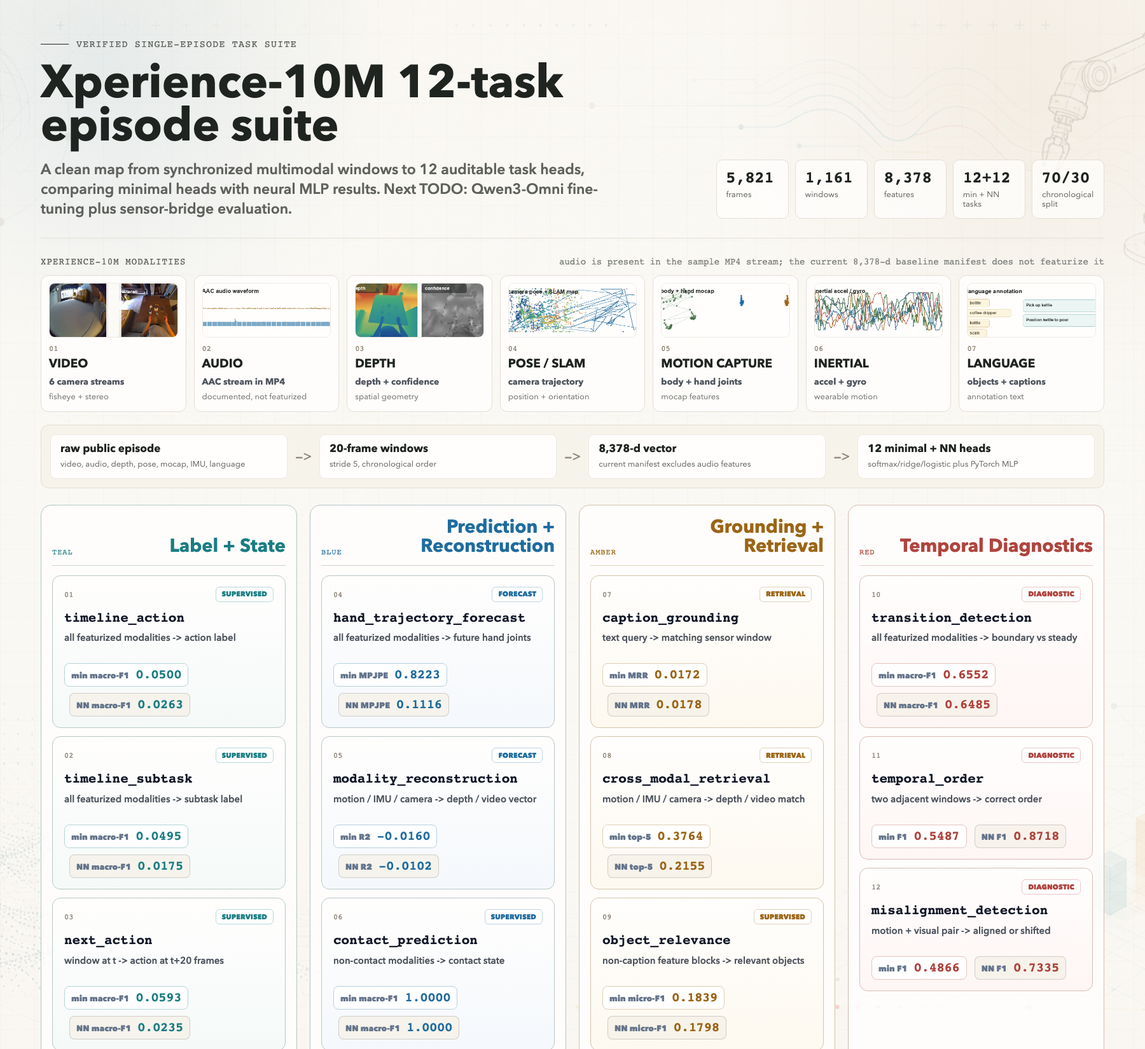
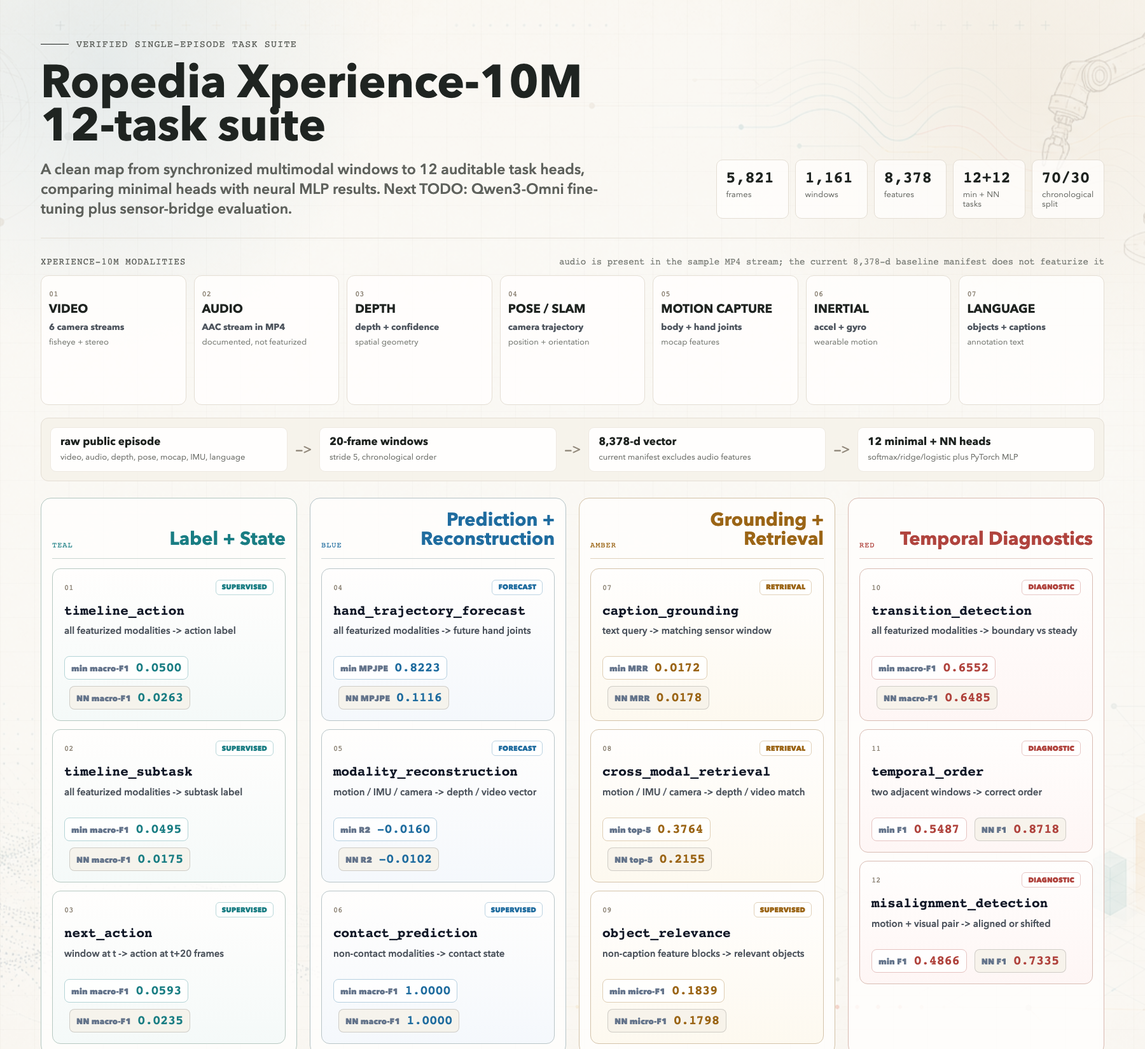
Rename project to Ropedia Xperience-10M

diff --git a/docs/index.html b/docs/index.html
@@ -3,9 +3,9 @@
 <head>
   <meta charset="utf-8">
   <meta name="viewport" content="width=device-width, initial-scale=1">
-  <title>Xperience-10M Episode Task Suite</title>
+  <title>Ropedia Xperience-10M Task Suite</title>
   <meta name="description" content="A transparent multimodal task suite for one public Xperience-10M sample episode released by Ropedia, with minimal and neural MLP baselines.">
-  <meta property="og:title" content="Xperience-10M Episode Task Suite">
+  <meta property="og:title" content="Ropedia Xperience-10M Task Suite">
   <meta property="og:description" content="One public embodied-AI episode, converted into reproducible multimodal tasks, minimal baselines, neural MLP baselines, metrics, and diagrams.">
   <meta property="og:image" content="assets/task_suite_infographic.png?v=xperience10m-nn">
   <style>
@@ -564,9 +564,9 @@
   <a class="skip-link" href="#main">Skip to content</a>
   <nav class="site-nav">
     <div class="wrap nav-inner">
-      <a class="brand" href="#top" aria-label="Xperience-10M Episode Task Suite home">
+      <a class="brand" href="#top" aria-label="Ropedia Xperience-10M Task Suite home">
         <span class="mark" aria-hidden="true">X</span>
-        <span>Xperience-10M Episode Task Suite</span>
+        <span>Ropedia Xperience-10M Task Suite</span>
       </a>
       <div class="nav-links" aria-label="Page navigation">
         <a href="#suite">Suite</a>
@@ -579,8 +579,8 @@
         <a href="#tasks">Tasks</a>
         <a href="#features">Signals</a>
         <a href="#artifacts">Artifacts</a>
-        <a class="nav-action" href="https://huggingface.co/spaces/cy0307/ropedia-episode-task-suite">HF Space</a>
-        <a class="nav-action" href="https://github.com/ChaoYue0307/ropedia-episode-task-suite">GitHub</a>
+        <a class="nav-action" href="https://huggingface.co/spaces/cy0307/ropedia-xperience-10m-task-suite">HF Space</a>
+        <a class="nav-action" href="https://github.com/ChaoYue0307/ropedia-xperience-10m-task-suite">GitHub</a>
       </div>
     </div>
   </nav>
@@ -589,7 +589,7 @@
     <div class="wrap hero-inner">
       <div>
         <div class="eyebrow">single public episode / verified artifacts</div>
-        <h1>One Xperience-10M episode, made auditable.</h1>
+        <h1>One Ropedia Xperience-10M episode, made auditable.</h1>
         <p class="hero-copy">
           A compact research lab for the public Xperience-10M sample from Ropedia:
           video, audio, depth, pose, motion capture, inertial sensing, and language annotation,
@@ -598,8 +598,8 @@
         </p>
         <div class="hero-actions">
           <a class="button primary" href="#suite">Inspect 12 tasks</a>
-          <a class="button" href="https://cy0307-ropedia-episode-task-suite.static.hf.space/">Open HF app</a>
-          <a class="button" href="https://github.com/ChaoYue0307/ropedia-episode-task-suite">View repository</a>
+          <a class="button" href="https://cy0307-ropedia-xperience-10m-task-suite.static.hf.space/">Open HF app</a>
+          <a class="button" href="https://github.com/ChaoYue0307/ropedia-xperience-10m-task-suite">View repository</a>
           <a class="button" href="data/summary_metrics.json">Read metrics JSON</a>
         </div>
         <div class="hero-stats">
@@ -628,10 +628,10 @@
     <section id="suite">
       <div class="wrap">
         <div class="section-head">
-          <h2>Xperience-10M 12-task suite, first.</h2>
+          <h2>Ropedia Xperience-10M 12-task suite, first.</h2>
           <p>The top-level map shows the Xperience-10M sample modalities and the verified 12-task results. Audio is present in the sample MP4 stream, but the current 8,378-d baseline manifest does not featurize it.</p>
         </div>
-        <img class="task-suite-image" src="assets/task_suite_infographic.png?v=xperience10m-nn" alt="ChatGPT-image-backed infographic showing all 12 Xperience-10M episode tasks">
+        <img class="task-suite-image" src="assets/task_suite_infographic.png?v=xperience10m-nn" alt="ChatGPT-image-backed infographic showing all 12 Ropedia Xperience-10M tasks">
       </div>
     </section>
 
@@ -742,7 +742,7 @@
           <h2>The 12 tasks share four head families.</h2>
           <p>The diagram separates the shared episode-window feature pipeline from the task-specific heads, and notes that audio remains dataset context rather than a current baseline feature block.</p>
         </div>
-        <img class="architecture-image" src="assets/task_architectures.png?v=xperience10m-nn" alt="Verified minimal and neural architecture diagram for all 12 Xperience-10M episode tasks">
+        <img class="architecture-image" src="assets/task_architectures.png?v=xperience10m-nn" alt="Verified minimal and neural architecture diagram for all 12 Ropedia Xperience-10M tasks">
       </div>
     </section>
 
@@ -831,22 +831,22 @@
           <p>Metrics, predictions, confusion matrices, manifests, lightweight model weights, and derived window artifacts are committed so the repo is reviewable before rerunning anything. Raw Xperience-10M data and Qwen weights are not redistributed.</p>
         </div>
         <div class="artifact-grid">
-          <article class="artifact"><h3>Task-suite report</h3><p>One JSON file with every task metric and split detail.</p><a href="https://github.com/ChaoYue0307/ropedia-episode-task-suite/blob/main/results/episode_task_suite/summary_report.json">summary_report.json</a></article>
-          <article class="artifact"><h3>Neural MLP task results</h3><p>Per-task PyTorch MLP metrics, predictions, histories, and checkpoints for the same 12 task contracts.</p><a href="https://github.com/ChaoYue0307/ropedia-episode-task-suite/tree/main/results/episode_task_suite/neural_mlp">neural_mlp/</a></article>
-          <article class="artifact"><h3>Four-direction taxonomy</h3><p>Generated JSON, CSV, Markdown, and website data mapping all 12 tasks to the four research tracks with two baselines.</p><a href="https://github.com/ChaoYue0307/ropedia-episode-task-suite/tree/main/results/episode_task_suite/research_directions">research_directions/</a></article>
-          <article class="artifact"><h3>Task walkthroughs</h3><p>Beginner-oriented case studies for all 12 tasks, including input, middle process modules, output, metric, and limitation.</p><a href="https://github.com/ChaoYue0307/ropedia-episode-task-suite/tree/main/results/episode_task_suite/task_walkthroughs">task_walkthroughs/</a></article>
-          <article class="artifact"><h3>Feature manifest</h3><p>Start/end index and dimension for every current feature block.</p><a href="https://github.com/ChaoYue0307/ropedia-episode-task-suite/blob/main/results/episode_task_suite/feature_manifest.json">feature_manifest.json</a></article>
-          <article class="artifact"><h3>Cross-modal retrieval</h3><p>The strongest self-supervised signal from the single episode.</p><a href="https://github.com/ChaoYue0307/ropedia-episode-task-suite/blob/main/results/episode_task_suite/cross_modal_retrieval/metrics.json">metrics.json</a></article>
-          <article class="artifact"><h3>Current all-feature action model</h3><p>Classifier metrics, predictions, confusion matrix, and model weights.</p><a href="https://github.com/ChaoYue0307/ropedia-episode-task-suite/blob/main/results/min_all_modalities_action_model/metrics.json">metrics.json</a></article>
-          <article class="artifact"><h3>Windows table</h3><p>Window start/end frames and aligned action/subtask labels.</p><a href="https://github.com/ChaoYue0307/ropedia-episode-task-suite/blob/main/results/episode_task_suite/windows.csv">windows.csv</a></article>
-          <article class="artifact"><h3>Reproduction scripts</h3><p>Three training scripts plus the dashboard generator.</p><a href="https://github.com/ChaoYue0307/ropedia-episode-task-suite/tree/main/scripts">scripts/</a></article>
-          <article class="artifact"><h3>Hugging Face Space</h3><p>The same dashboard packaged as a public static Space.</p><a href="https://huggingface.co/spaces/cy0307/ropedia-episode-task-suite">cy0307/ropedia-episode-task-suite</a></article>
-          <article class="artifact"><h3>Derived HF artifacts</h3><p>Metrics, predictions, docs, and lightweight derived files without raw Xperience-10M video/data redistribution.</p><a href="https://huggingface.co/datasets/cy0307/ropedia-episode-task-suite-artifacts">dataset repo</a></article>
-          <article class="artifact"><h3>HF baseline models</h3><p>Minimal NumPy softmax and ridge baseline weights with model card and architecture diagrams.</p><a href="https://huggingface.co/cy0307/ropedia-minimal-task-baselines">model repo</a></article>
-          <article class="artifact"><h3>A100 HF relay status</h3><p>HF full-dataset access is pending; an A100 watcher is ready to download a 32-session stratified pilot and transfer it to H20 once approved.</p><a href="https://github.com/ChaoYue0307/ropedia-episode-task-suite/blob/main/results/omni_finetune/A100_HF_RELAY_STATUS.md">A100_HF_RELAY_STATUS.md</a></article>
-          <article class="artifact"><h3>Qwen3-Omni readiness artifacts</h3><p>Manifests, metadata, metrics, and progress logs from the current smoke/evidence run. No real 32-episode metric is claimed yet.</p><a href="https://github.com/ChaoYue0307/ropedia-episode-task-suite/blob/main/results/omni_finetune/episode_manifest.json">episode_manifest.json</a></article>
-          <article class="artifact"><h3>32-episode data gate</h3><p>The readiness gate remains the source of truth before any full pilot training claim.</p><a href="https://github.com/ChaoYue0307/ropedia-episode-task-suite/blob/main/results/omni_finetune/DATA_BLOCKER_REPORT.md">DATA_BLOCKER_REPORT.md</a></article>
-          <article class="artifact"><h3>HF collection</h3><p>Space, artifacts, and model baselines grouped into one public project collection.</p><a href="https://huggingface.co/collections/cy0307/ropedia-episode-task-suite">collection</a></article>
+          <article class="artifact"><h3>Task-suite report</h3><p>One JSON file with every task metric and split detail.</p><a href="https://github.com/ChaoYue0307/ropedia-xperience-10m-task-suite/blob/main/results/episode_task_suite/summary_report.json">summary_report.json</a></article>
+          <article class="artifact"><h3>Neural MLP task results</h3><p>Per-task PyTorch MLP metrics, predictions, histories, and checkpoints for the same 12 task contracts.</p><a href="https://github.com/ChaoYue0307/ropedia-xperience-10m-task-suite/tree/main/results/episode_task_suite/neural_mlp">neural_mlp/</a></article>
+          <article class="artifact"><h3>Four-direction taxonomy</h3><p>Generated JSON, CSV, Markdown, and website data mapping all 12 tasks to the four research tracks with two baselines.</p><a href="https://github.com/ChaoYue0307/ropedia-xperience-10m-task-suite/tree/main/results/episode_task_suite/research_directions">research_directions/</a></article>
+          <article class="artifact"><h3>Task walkthroughs</h3><p>Beginner-oriented case studies for all 12 tasks, including input, middle process modules, output, metric, and limitation.</p><a href="https://github.com/ChaoYue0307/ropedia-xperience-10m-task-suite/tree/main/results/episode_task_suite/task_walkthroughs">task_walkthroughs/</a></article>
+          <article class="artifact"><h3>Feature manifest</h3><p>Start/end index and dimension for every current feature block.</p><a href="https://github.com/ChaoYue0307/ropedia-xperience-10m-task-suite/blob/main/results/episode_task_suite/feature_manifest.json">feature_manifest.json</a></article>
+          <article class="artifact"><h3>Cross-modal retrieval</h3><p>The strongest self-supervised signal from the single episode.</p><a href="https://github.com/ChaoYue0307/ropedia-xperience-10m-task-suite/blob/main/results/episode_task_suite/cross_modal_retrieval/metrics.json">metrics.json</a></article>
+          <article class="artifact"><h3>Current all-feature action model</h3><p>Classifier metrics, predictions, confusion matrix, and model weights.</p><a href="https://github.com/ChaoYue0307/ropedia-xperience-10m-task-suite/blob/main/results/min_all_modalities_action_model/metrics.json">metrics.json</a></article>
+          <article class="artifact"><h3>Windows table</h3><p>Window start/end frames and aligned action/subtask labels.</p><a href="https://github.com/ChaoYue0307/ropedia-xperience-10m-task-suite/blob/main/results/episode_task_suite/windows.csv">windows.csv</a></article>
+          <article class="artifact"><h3>Reproduction scripts</h3><p>Three training scripts plus the dashboard generator.</p><a href="https://github.com/ChaoYue0307/ropedia-xperience-10m-task-suite/tree/main/scripts">scripts/</a></article>
+          <article class="artifact"><h3>Hugging Face Space</h3><p>The same dashboard packaged as a public static Space.</p><a href="https://huggingface.co/spaces/cy0307/ropedia-xperience-10m-task-suite">cy0307/ropedia-xperience-10m-task-suite</a></article>
+          <article class="artifact"><h3>Derived HF artifacts</h3><p>Metrics, predictions, docs, and lightweight derived files without raw Xperience-10M video/data redistribution.</p><a href="https://huggingface.co/datasets/cy0307/ropedia-xperience-10m-task-suite-artifacts">dataset repo</a></article>
+          <article class="artifact"><h3>HF baseline models</h3><p>Minimal NumPy softmax and ridge baseline weights with model card and architecture diagrams.</p><a href="https://huggingface.co/cy0307/ropedia-xperience-10m-task-baselines">model repo</a></article>
+          <article class="artifact"><h3>A100 HF relay status</h3><p>HF full-dataset access is pending; an A100 watcher is ready to download a 32-session stratified pilot and transfer it to H20 once approved.</p><a href="https://github.com/ChaoYue0307/ropedia-xperience-10m-task-suite/blob/main/results/omni_finetune/A100_HF_RELAY_STATUS.md">A100_HF_RELAY_STATUS.md</a></article>
+          <article class="artifact"><h3>Qwen3-Omni readiness artifacts</h3><p>Manifests, metadata, metrics, and progress logs from the current smoke/evidence run. No real 32-episode metric is claimed yet.</p><a href="https://github.com/ChaoYue0307/ropedia-xperience-10m-task-suite/blob/main/results/omni_finetune/episode_manifest.json">episode_manifest.json</a></article>
+          <article class="artifact"><h3>32-episode data gate</h3><p>The readiness gate remains the source of truth before any full pilot training claim.</p><a href="https://github.com/ChaoYue0307/ropedia-xperience-10m-task-suite/blob/main/results/omni_finetune/DATA_BLOCKER_REPORT.md">DATA_BLOCKER_REPORT.md</a></article>
+          <article class="artifact"><h3>HF collection</h3><p>Space, artifacts, and model baselines grouped into one public project collection.</p><a href="https://huggingface.co/collections/cy0307/ropedia-xperience-10m-task-suite">collection</a></article>
         </div>
       </div>
     </section>
@@ -881,8 +881,8 @@ hf download ropedia-ai/xperience-10m-sample \
   --repo-type dataset \
   --local-dir data/sample/xperience-10m-sample
 
-git clone https://github.com/ChaoYue0307/ropedia-episode-task-suite.git
-cd ropedia-episode-task-suite
+git clone https://github.com/ChaoYue0307/ropedia-xperience-10m-task-suite.git
+cd ropedia-xperience-10m-task-suite
 python scripts/episode_task_suite.py --workspace /path/to/workspace --include-neural
 python scripts/generate_visualizations.py</code></pre>
       </div>

diff --git a/scripts/generate_visualizations.py b/scripts/generate_visualizations.py
@@ -24,6 +24,22 @@ DOCS = ROOT / "docs"
 ASSETS = DOCS / "assets"
 CHARTS = ASSETS / "charts"
 
+OMNI_RELAY = {
+    "status": "pending_huggingface_gated_access",
+    "dataset": "ropedia-ai/xperience-10m",
+    "relay_server": "ANGEL-A100-80Gx4",
+    "training_server": "ANGEL-H20-96GX8",
+    "selection_strategy": "stratified_round_robin_by_top_level_session",
+    "target_episodes": 32,
+    "selected_sessions": 32,
+    "candidate_scan_top_level_sessions": 64,
+    "valid_candidates": 680,
+    "estimated_bytes": 72031620552,
+    "exclude": ["visualization.rrd"],
+    "blocker": "Hugging Face returns 403 pending review for the full Xperience-10M gated dataset.",
+    "claim_boundary": "No real 32-episode fine-tune is claimed until the watcher downloads data, transfers it to H20, and the held-out evaluation runs.",
+}
+
 
 def read_json(path: Path) -> dict:
     return json.loads(path.read_text(encoding="utf-8"))
@@ -100,7 +116,7 @@ def svg_pipeline_diagram(path: Path, summary: dict) -> None:
             "numpy softmax classifier",
             "metrics and predictions",
         ], "#1f63e9"),
-        (520, 380, 360, 168, "6. Episode task suite", [
+        (520, 380, 360, 168, "6. Ropedia Xperience-10M suite", [
             f"{task_count} supervised/self-supervised tasks",
             "chronological split",
             "retrieval, forecast, alignment",
@@ -117,7 +133,7 @@ def svg_pipeline_diagram(path: Path, summary: dict) -> None:
         f'<svg xmlns="http://www.w3.org/2000/svg" width="{width}" height="{height}" viewBox="0 0 {width} {height}">',
         '<rect width="100%" height="100%" fill="#ffffff"/>',
         '<rect x="0" y="0" width="1400" height="760" fill="#ffffff"/>',
-        '<text x="60" y="58" font-family="Arial, sans-serif" font-size="32" font-weight="700" fill="#10141f">Verified Xperience-10M Episode Pipeline</text>',
+        '<text x="60" y="58" font-family="Arial, sans-serif" font-size="32" font-weight="700" fill="#10141f">Verified Ropedia Xperience-10M Pipeline</text>',
         '<text x="60" y="88" font-family="Arial, sans-serif" font-size="16" fill="#5b6475">Generated from committed scripts and metrics; no conceptual placeholder stages.</text>',
     ]
     arrows = [
@@ -333,7 +349,7 @@ def svg_task_architectures(path: Path, summary: dict) -> None:
         f'<svg xmlns="http://www.w3.org/2000/svg" width="{width}" height="{height}" viewBox="0 0 {width} {height}">',
         '<defs><marker id="arrow2" viewBox="0 0 10 10" refX="8" refY="5" markerWidth="7" markerHeight="7" orient="auto-start-reverse"><path d="M 0 0 L 10 5 L 0 10 z" fill="#cbd5e1"/></marker></defs>',
         '<rect width="100%" height="100%" fill="#ffffff"/>',
-        '<text x="60" y="56" font-family="Arial, sans-serif" font-size="34" font-weight="700" fill="#10141f">Minimal Architectures for the 12 Xperience-10M Episode Tasks</text>',
+        '<text x="60" y="56" font-family="Arial, sans-serif" font-size="34" font-weight="700" fill="#10141f">Minimal Architectures for 12 Ropedia Xperience-10M Tasks</text>',
         '<text x="60" y="88" font-family="Arial, sans-serif" font-size="16" fill="#5b6475">Generated from scripts/episode_task_suite.py semantics and committed summary metrics. These are minimal baselines, not deep foundation models.</text>',
     ]
 
@@ -419,6 +435,7 @@ def collect_summary() -> dict:
     suite = read_json(RESULTS / "episode_task_suite/summary_report.json")
     manifest = read_json(RESULTS / "episode_task_suite/feature_manifest.json")
     return {
+        "omni_relay": OMNI_RELAY,
         "models": {
             "motion_action": min_action,
             "motion_subtask": min_subtask,
@@ -453,13 +470,13 @@ def generate_charts(summary: dict) -> None:
     task_rows = []
     for task_name, metrics in suite.items():
         task_rows.append((task_name, task_score(metrics)))
-    svg_bar_chart(CHARTS / "episode_task_scores.svg", "Episode Task Suite: Main Scores", task_rows, max_value=1.0)
+    svg_bar_chart(CHARTS / "episode_task_scores.svg", "Ropedia Xperience-10M Suite: Main Scores", task_rows, max_value=1.0)
 
     neural = summary["suite"].get("neural_tasks", {})
     if neural:
         neural_rows = [(task_name, task_score(metrics)) for task_name, metrics in neural.items() if "error" not in metrics]
         if neural_rows:
-            svg_bar_chart(CHARTS / "episode_task_scores_neural_mlp.svg", "Episode Task Suite: Neural MLP Main Scores", neural_rows, max_value=1.0)
+            svg_bar_chart(CHARTS / "episode_task_scores_neural_mlp.svg", "Ropedia Xperience-10M Suite: Neural MLP Main Scores", neural_rows, max_value=1.0)
 
         comparison_rows = []
         for task_name, metrics in suite.items():
@@ -484,7 +501,7 @@ def generate_charts(summary: dict) -> None:
 def write_summary_data(summary: dict) -> None:
     DOCS.mkdir(parents=True, exist_ok=True)
     (DOCS / "data").mkdir(parents=True, exist_ok=True)
-    (DOCS / "data/summary_metrics.json").write_text(json.dumps(summary, indent=2), encoding="utf-8")
+    (DOCS / "data/summary_metrics.json").write_text(json.dumps(summary, indent=2) + "\n", encoding="utf-8")
 
 
 def main() -> int:

diff --git a/scripts/render_overview_figures.py b/scripts/render_overview_figures.py
@@ -139,7 +139,7 @@ def build_pipeline_html(summary: dict, base_path: Path) -> str:
             arrow(),
             stage_card(
                 "06",
-                "Episode task suite",
+                "Ropedia Xperience-10M suite",
                 [f"{task_count} minimal + {neural_count} neural results", "forecast, retrieval, alignment", "chronological evaluation"],
                 COLORS["teal"],
             ),
@@ -358,7 +358,7 @@ def build_pipeline_html(summary: dict, base_path: Path) -> str:
       <header>
         <div>
           <div class="kicker">verified single-episode pipeline</div>
-          <h1>From Xperience-10M episode to reproducible artifacts</h1>
+          <h1>From Ropedia Xperience-10M episode to reproducible artifacts</h1>
           <p class="subtitle">The figure follows the actual code path and includes minimal heads plus neural MLP results. Next TODO: Qwen3-Omni fine-tuning and sensor-bridge evaluation on multi-episode splits.</p>
         </div>
         <div class="metrics">
@@ -697,7 +697,7 @@ def build_architecture_html(summary: dict, base_path: Path) -> str:
       <header>
         <div>
           <div class="kicker">minimal + neural verified model architectures</div>
-          <h1>12 Xperience-10M episode tasks, minimal and NN heads</h1>
+          <h1>12 Ropedia Xperience-10M tasks, minimal and NN heads</h1>
           <p class="subtitle">Each task uses the same aligned episode-window contract. The figure shows minimal heads beside neural MLP metrics; next TODO is Qwen3-Omni fine-tuning with sensor-bridge evaluation.</p>
         </div>
         <div class="summary-pill"><strong>{len(suite['tasks'])}+{neural_count}</strong><span>min + NN tasks</span></div>

diff --git a/scripts/render_task_suite_infographic.py b/scripts/render_task_suite_infographic.py
@@ -1,6 +1,6 @@
 #!/usr/bin/env python3
 """
-Render a polished 12-task Xperience-10M episode-suite infographic.
+Render a polished Ropedia Xperience-10M 12-task infographic.
 
 The task names, inputs, and metrics are read from
 results/episode_task_suite/summary_report.json. The output is a deterministic
@@ -913,13 +913,13 @@ def build_html(summary: dict, base_image: Path | None, sample_dir: Path | None) 
   </style>
 </head>
 <body>
-  <main class="canvas" aria-label="Xperience-10M 12-task episode suite infographic">
+  <main class="canvas" aria-label="Ropedia Xperience-10M 12-task suite infographic">
     {base_layer}
     <div class="content">
     <header class="header">
       <div>
         <div class="kicker">verified single-episode task suite</div>
-        <h1>Xperience-10M 12-task episode suite</h1>
+        <h1>Ropedia Xperience-10M 12-task suite</h1>
         <p class="subtitle">A clean map from synchronized multimodal windows to 12 auditable task heads, comparing minimal heads with neural MLP results. Next TODO: Qwen3-Omni fine-tuning plus sensor-bridge evaluation.</p>
       </div>
       <div class="stats">{stats_html}</div>

diff --git a/README.md b/README.md
@@ -1,7 +1,7 @@
-# Xperience-10M Episode Task Suite
+# Ropedia Xperience-10M Task Suite
 
-[![Website](https://img.shields.io/badge/site-GitHub%20Pages-1f63e9)](https://chaoyue0307.github.io/ropedia-episode-task-suite/)
-[![HF Space](https://img.shields.io/badge/Hugging%20Face-Space-ffb000)](https://huggingface.co/spaces/cy0307/ropedia-episode-task-suite)
+[![Website](https://img.shields.io/badge/site-GitHub%20Pages-1f63e9)](https://chaoyue0307.github.io/ropedia-xperience-10m-task-suite/)
+[![HF Space](https://img.shields.io/badge/Hugging%20Face-Space-ffb000)](https://huggingface.co/spaces/cy0307/ropedia-xperience-10m-task-suite)
 [![Dataset](https://img.shields.io/badge/dataset-Xperience--10M%20by%20Ropedia-008b9a)](https://github.com/Ropedia)
 [![Scope](https://img.shields.io/badge/scope-single%20public%20sample-b65b04)](#scope)
 
@@ -37,11 +37,11 @@ This repo keeps that distinction explicit:
 
 Start with the visual dashboard:
 
-**[chaoyue0307.github.io/ropedia-episode-task-suite](https://chaoyue0307.github.io/ropedia-episode-task-suite/)**
+**[chaoyue0307.github.io/ropedia-xperience-10m-task-suite](https://chaoyue0307.github.io/ropedia-xperience-10m-task-suite/)**
 
 Hugging Face Space app:
 
-**[cy0307-ropedia-episode-task-suite.static.hf.space](https://cy0307-ropedia-episode-task-suite.static.hf.space/)**
+**[cy0307-ropedia-xperience-10m-task-suite.static.hf.space](https://cy0307-ropedia-xperience-10m-task-suite.static.hf.space/)**
 
 ## Read This Project In Three Layers
 
@@ -56,13 +56,13 @@ Hugging Face Space app:
 
 | Resource | Link |
 | --- | --- |
-| This GitHub repo | [github.com/ChaoYue0307/ropedia-episode-task-suite](https://github.com/ChaoYue0307/ropedia-episode-task-suite) |
-| This project website | [chaoyue0307.github.io/ropedia-episode-task-suite](https://chaoyue0307.github.io/ropedia-episode-task-suite/) |
-| This Hugging Face Space | [huggingface.co/spaces/cy0307/ropedia-episode-task-suite](https://huggingface.co/spaces/cy0307/ropedia-episode-task-suite) |
-| Live Hugging Face static app | [cy0307-ropedia-episode-task-suite.static.hf.space](https://cy0307-ropedia-episode-task-suite.static.hf.space/) |
-| Derived artifacts on Hugging Face | [huggingface.co/datasets/cy0307/ropedia-episode-task-suite-artifacts](https://huggingface.co/datasets/cy0307/ropedia-episode-task-suite-artifacts) |
-| Minimal baseline models on Hugging Face | [huggingface.co/cy0307/ropedia-minimal-task-baselines](https://huggingface.co/cy0307/ropedia-minimal-task-baselines) |
-| Hugging Face collection | [huggingface.co/collections/cy0307/ropedia-episode-task-suite](https://huggingface.co/collections/cy0307/ropedia-episode-task-suite) |
+| This GitHub repo | [github.com/ChaoYue0307/ropedia-xperience-10m-task-suite](https://github.com/ChaoYue0307/ropedia-xperience-10m-task-suite) |
+| This project website | [chaoyue0307.github.io/ropedia-xperience-10m-task-suite](https://chaoyue0307.github.io/ropedia-xperience-10m-task-suite/) |
+| This Hugging Face Space | [huggingface.co/spaces/cy0307/ropedia-xperience-10m-task-suite](https://huggingface.co/spaces/cy0307/ropedia-xperience-10m-task-suite) |
+| Live Hugging Face static app | [cy0307-ropedia-xperience-10m-task-suite.static.hf.space](https://cy0307-ropedia-xperience-10m-task-suite.static.hf.space/) |
+| Derived artifacts on Hugging Face | [huggingface.co/datasets/cy0307/ropedia-xperience-10m-task-suite-artifacts](https://huggingface.co/datasets/cy0307/ropedia-xperience-10m-task-suite-artifacts) |
+| Minimal and neural task baselines on Hugging Face | [huggingface.co/cy0307/ropedia-xperience-10m-task-baselines](https://huggingface.co/cy0307/ropedia-xperience-10m-task-baselines) |
+| Hugging Face collection | [huggingface.co/collections/cy0307/ropedia-xperience-10m-task-suite](https://huggingface.co/collections/cy0307/ropedia-xperience-10m-task-suite) |
 | Xperience-10M dataset website | [ropedia.com/dataset](https://ropedia.com/dataset) |
 | Xperience-10M release page | [ropedia.com/blog/20260316_xperience_10m](https://ropedia.com/blog/20260316_xperience_10m) |
 | Ropedia GitHub organization | [github.com/Ropedia](https://github.com/Ropedia) |
@@ -71,7 +71,7 @@ Hugging Face Space app:
 | Xperience-10M sample on Hugging Face | [huggingface.co/datasets/ropedia-ai/xperience-10m-sample](https://huggingface.co/datasets/ropedia-ai/xperience-10m-sample) |
 | Ropedia Hugging Face organization | [huggingface.co/ropedia-ai](https://huggingface.co/ropedia-ai) |
 
-![ChatGPT-image-backed Xperience-10M 12-task infographic](docs/assets/task_suite_infographic.png?v=xperience10m-nn)
+![ChatGPT-image-backed Ropedia Xperience-10M 12-task infographic](docs/assets/task_suite_infographic.png?v=xperience10m-nn)
 
 The infographic uses a ChatGPT-image-generated text-free research background and
 low-resolution modality thumbnails extracted from the public sample episode. The
@@ -210,8 +210,8 @@ still skipping `visualization.rrd`.
 Clone and run this repo:
 
 ```bash
-git clone https://github.com/ChaoYue0307/ropedia-episode-task-suite.git
-cd ropedia-episode-task-suite
+git clone https://github.com/ChaoYue0307/ropedia-xperience-10m-task-suite.git
+cd ropedia-xperience-10m-task-suite
 python scripts/episode_task_suite.py --workspace /path/to/workspace
 ```
 
@@ -258,7 +258,7 @@ python scripts/omni/build_episode_manifest.py \
   --output outputs/omni_exploration/modelscope_manifest.json
 
 python scripts/omni/qwen3_omni_adapter_smoke.py \
-  --workspace /home/cy/Ropedia/ropedia-episode-task-suite \
+  --workspace /home/cy/Ropedia/ropedia-xperience-10m-task-suite \
   --episode-root /home/cy/Ropedia/modelscope_data/xperience-10m-sample \
   --target action \
   --window-frames 20 \
@@ -333,7 +333,7 @@ python scripts/render_task_suite_infographic.py
 
 ```bash
 python scripts/omni/discover_xperience10m_sources.py \
-  --workspace /home/cy/Ropedia/ropedia-episode-task-suite \
+  --workspace /home/cy/Ropedia/ropedia-xperience-10m-task-suite \
   --data-root /home/cy/Ropedia/modelscope_data \
   --output results/omni_finetune/source_discovery.json \
   --report-output results/omni_finetune/DATA_BLOCKER_REPORT.md

diff --git a/notes/reproducibility_audit.md b/notes/reproducibility_audit.md
@@ -2,7 +2,7 @@
 
 Audit date: 2026-05-30 Asia/Singapore.
 
-Purpose: verify that the committed Xperience-10M Episode Task Suite artifacts are
+Purpose: verify that the committed Ropedia Xperience-10M Task Suite artifacts are
 real outputs from the scripts, not placeholder or fabricated metrics.
 
 ## Raw Inputs Checked
